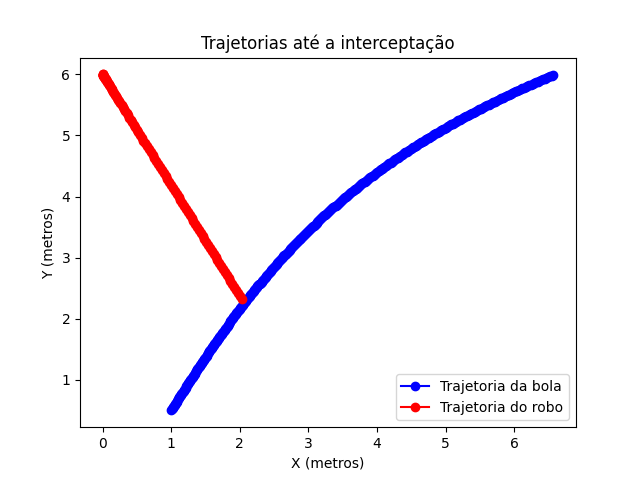
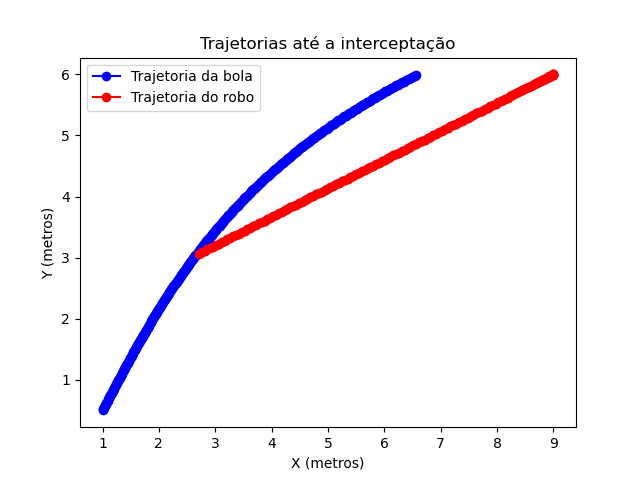
remover debug e alterar diretorio da trajetorio do robo

diff --git a/main.py b/main.py
@@ -17,9 +17,8 @@ array = carregar("trajetoria_bola.txt") #carrega o arquivo da bola
 
 # logica de interceptacao
 
-ponto = Ponto(0, 6, 0)
+ponto = Ponto(9, 6, 0)
 robo = Robo(ponto, 2.8, 2.8, 0.09)
-arrayDistanciaRelativa = [] # array utilitaria para a geracao do grafico da distancia relativa
 pontofinal = acharPonto(array, robo) # acha o ponto de interceptacao considerando as limitacoes
 print(pontofinal.x, pontofinal.y)
 if(pontofinal == -1):
@@ -40,26 +39,6 @@ robo_ax, robo_ay = media_pontos(robo_vx, robo_vy)
 distRelativa = distanciaRelativa(robo_x, robo_y, pontofinal)
 print(distRelativa[len(distRelativa)-1])
 
-# for x in range(len(bola_vy)-1):
-#     print(f"{bola_vy[x+1]} - {bola_vy[x]}")
-# for x in range(len(robo_vx)):
-#     print(robo_vx[x], robo_vy[x], x)
-
-# c = 0
-# for d in distRelativa:
-#     print(d, robo.raio)
-#     if d < robo.raio:
-#         distRelativa.remove(d)
-#         c+=1
-
-# for x in range(c):
-#     robo_x.pop()
-#     robo_y.pop()
-# print(c)
-
-# for x in range(len(robo_x)):
-#     print(robo_x[x], robo_y[x])
-
 gerarGraficoTrajetoria(robo_x, robo_y, bola_x, bola_y, ponto, pontofinal)
 gerarGraficoVelocidadeTempoRobo(robo_vx, robo_vy)
 gerarGraficoVelocidadeTempoBola(bola_vx, bola_vy)
@@ -67,8 +46,4 @@ gerarGraficoAceleracaoTempoRobo(robo_ax, robo_ay)
 gerarGraficoAceleracaoTempoBola(bola_ax, bola_ay)
 gerarGraficoDistanciaRelativa(distRelativa)
 
-# gerarGraficoDistanciaRelativa(array, ponto, pontofinal, x_robo, y_robo)
-# gerarGraficoTrajetoria(array, robo.coordenada, pontofinal, x_robo, y_robo)
-# gerarGraficoVelocidadeTempo(array, ponto, pontofinal)
-# gerarGraficoTrajetoriasTempo(array, ponto, pontofinal, x_robo, y_robo)
 exportarRobo(robo_x, robo_y)

diff --git a/utilitarios/calcularDeslocamento.py b/utilitarios/calcularDeslocamento.py
@@ -15,24 +15,19 @@ def calcular_deslocamento(arrayVelocidadeX, arrayVelocidadeY, pontoInicial, pont
             aceleracaoX = (arrayVelocidadeX[x+1] - arrayVelocidadeX[x])/0.02
             deslocamentoX = 0.5 * aceleracaoX * t**2
             pontoX = pontoInicial.x + deslocamentoX * sinalX
-            #print(f"{deslocamentoX} = 0.5 * {aceleracaoX} * {t**2}")
             #eixo y
             aceleracaoY = (arrayVelocidadeY[x+1] - arrayVelocidadeY[x])/0.02
             deslocamentoY = 0.5 * aceleracaoY * t**2
             pontoY = pontoInicial.y + deslocamentoY * sinalY
-            #print(aceleracaoY)
         else:
             t = x * 0.02
             #eixo x
             deslocamentoX = arrayVelocidadeX[x] * (t - 1)
             deslocamentoX += deslocamentoAceleradoX
-            #print(f"deslocamento X = {arrayVelocidadeX[x]} * ({t}-1) = {deslocamentoX}")
-            #print(f"deslocamentoX = {arrayVelocidadeX[x]} * {t-1}")
             pontoX = pontoInicial.x + deslocamentoX * sinalX
             #eixo y
             deslocamentoY = arrayVelocidadeY[x] * (t - 1)
             deslocamentoY += deslocamentoAceleradoY
-            #print(f"deslocamentoY = {arrayVelocidadeY[x]} * {t} - {1}")
             pontoY = pontoInicial.y + deslocamentoY * sinalY
         X.append(pontoX)
         Y.append(pontoY)

diff --git a/utilitarios/popularArrayRobo.py b/utilitarios/popularArrayRobo.py
@@ -19,10 +19,7 @@ def calcular_velocidade(ponto_inicial, ponto_final, tempo_total, aceleracao, vel
             velocidade = velocidade_max
             vx = velocidade * math.cos(angulo) * sinalX
             vy = velocidade * math.sin(angulo) * sinalY
-        #print(f"vx = {velocidade} * {math.cos(angulo)} * {sinalX}")
-        #print(f"vy = {velocidade} * {math.sin(angulo)} * {sinalY}")       
         velocidade_x.append(vx)
         velocidade_y.append(vy)
-        #print(vx, vy, math.floor(tempo/0.02))
         tempo += 0.02
     return velocidade_x, velocidade_y

diff --git a/graficos/velocidadeTempo.py b/graficos/velocidadeTempo.py
@@ -15,7 +15,6 @@ def gerarGraficoVelocidadeTempoBola(bola_vx, bola_vy):
     plt.legend()
     salvar = "imagensGeradas/velocidadeTempoBola.png"
     plt.savefig(salvar)
-    plt.show()
     plt.close()
     return
 
@@ -33,6 +32,5 @@ def gerarGraficoVelocidadeTempoRobo(robo_vx, robo_vy):
     plt.legend()
     salvar = "imagensGeradas/velocidadeTempoRobo.png"
     plt.savefig(salvar)
-    plt.show()
     plt.close()
     return

diff --git a/utilitarios/exportarRobo.py b/utilitarios/exportarRobo.py
@@ -1,5 +1,5 @@
 def exportarRobo(x_robo, y_robo):
-    with open("trajetoria_robo.txt", "w") as file:
+    with open("./orabolas-godot/trajetoria_robo.txt", "w") as file:
         t = 0.02
         for x, y in zip(x_robo, y_robo):
             file.write(f"{t:.2f}\t{x}\t{y}\n")

diff --git a/graficos/trajetoriasTempo.py b/graficos/trajetoriasTempo.py
@@ -28,5 +28,4 @@ def gerarGraficoTrajetoriasTempo(arrayBola, pontoInicial, pontoFinal, arrayRobo_
     plt.legend()
     salvar = "imagensGeradas/trajetoriasTempo.png"
     plt.savefig(salvar)
-    plt.show()
     plt.close()

diff --git a/graficos/trajetorias.py b/graficos/trajetorias.py
@@ -9,5 +9,4 @@ def gerarGraficoTrajetoria(robo_x, robo_y, bola_x, bola_y, pontoInicial, pontofi
     plt.legend()
     salvar = "imagensGeradas/trajetorias.png"
     plt.savefig(salvar)
-    plt.show()
     plt.close()

diff --git a/graficos/aceleracaoTempo.py b/graficos/aceleracaoTempo.py
@@ -14,7 +14,6 @@ def gerarGraficoAceleracaoTempoRobo(robo_ax, robo_ay):
     plt.legend()
     salvar = "imagensGeradas/aceleracaoTempoRobo.png"
     plt.savefig(salvar)
-    plt.show()
     plt.close()
     return
 
